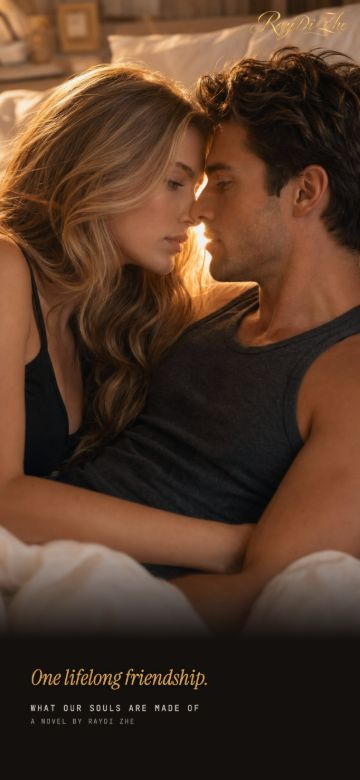
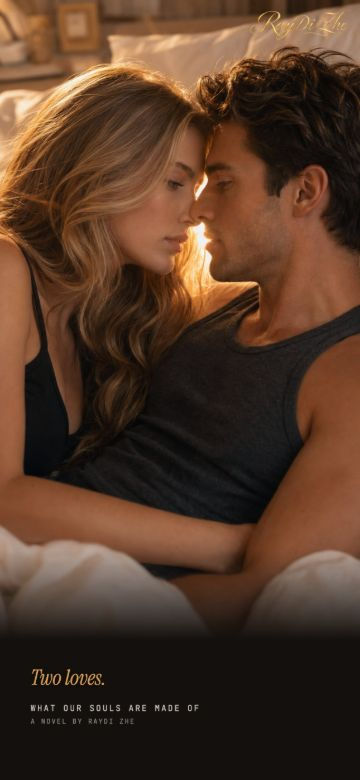
Обои «Тесса и Итан»: строка «Two loves.»

Changed region(s): [[0.0917, 0.8615, 0.5806, 0.8923]]

diff --git a/shared/content.js b/shared/content.js
@@ -57,14 +57,14 @@ window.SOULS = {
     gift: {
       phone: [
         { slug: "tessa-sam",   title: "Tessa & Sam",   line: "Two loves." },
-        { slug: "tessa-ethan", title: "Tessa & Ethan", line: "One lifelong friendship." },
+        { slug: "tessa-ethan", title: "Tessa & Ethan", line: "Two loves." },
         { slug: "triangle",    title: "The three of them", line: "One impossible choice." },
         { slug: "ethan",       title: "Ethan", line: "Ethan" },
         { slug: "sam",         title: "Sam",   line: "Sam" }
       ],
       desktop: [
         { slug: "tessa-sam",   title: "Tessa & Sam",   line: "Two loves." },
-        { slug: "tessa-ethan", title: "Tessa & Ethan", line: "One lifelong friendship." },
+        { slug: "tessa-ethan", title: "Tessa & Ethan", line: "Two loves." },
         { slug: "triangle",    title: "The three of them", line: "One impossible choice." },
         { slug: "ethan",       title: "Ethan", line: "Ethan" },
         { slug: "sam",         title: "Sam",   line: "Sam" }
